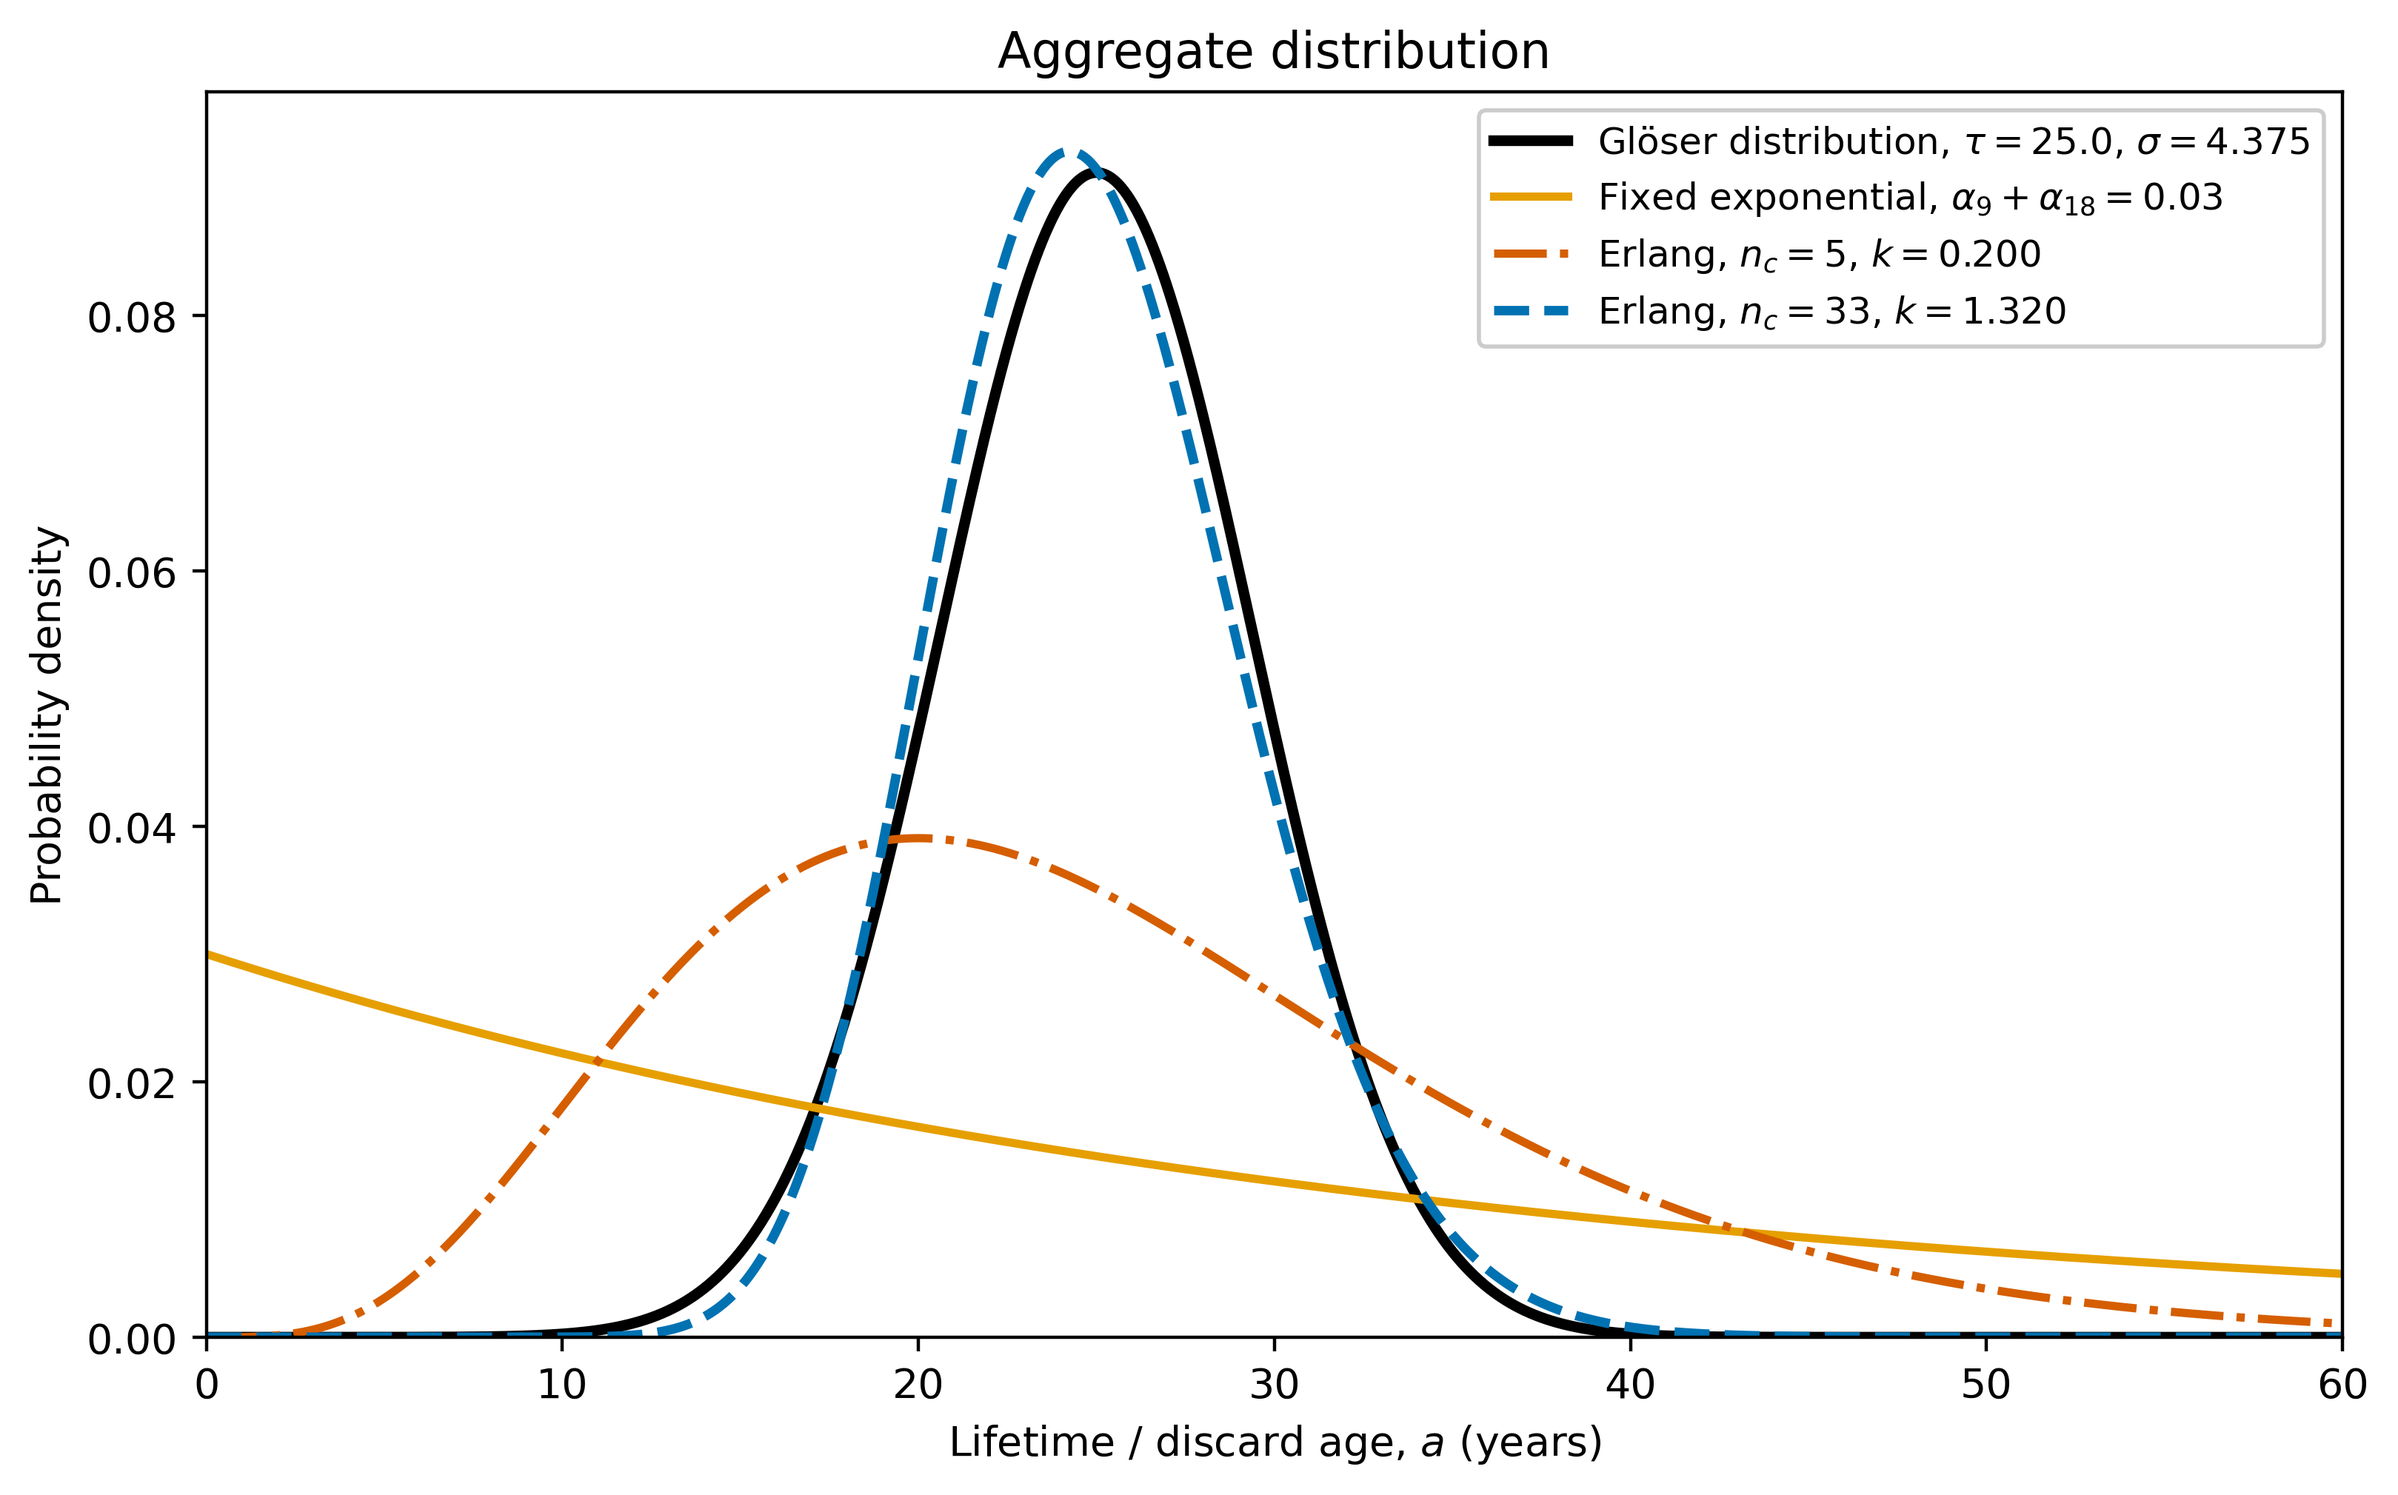
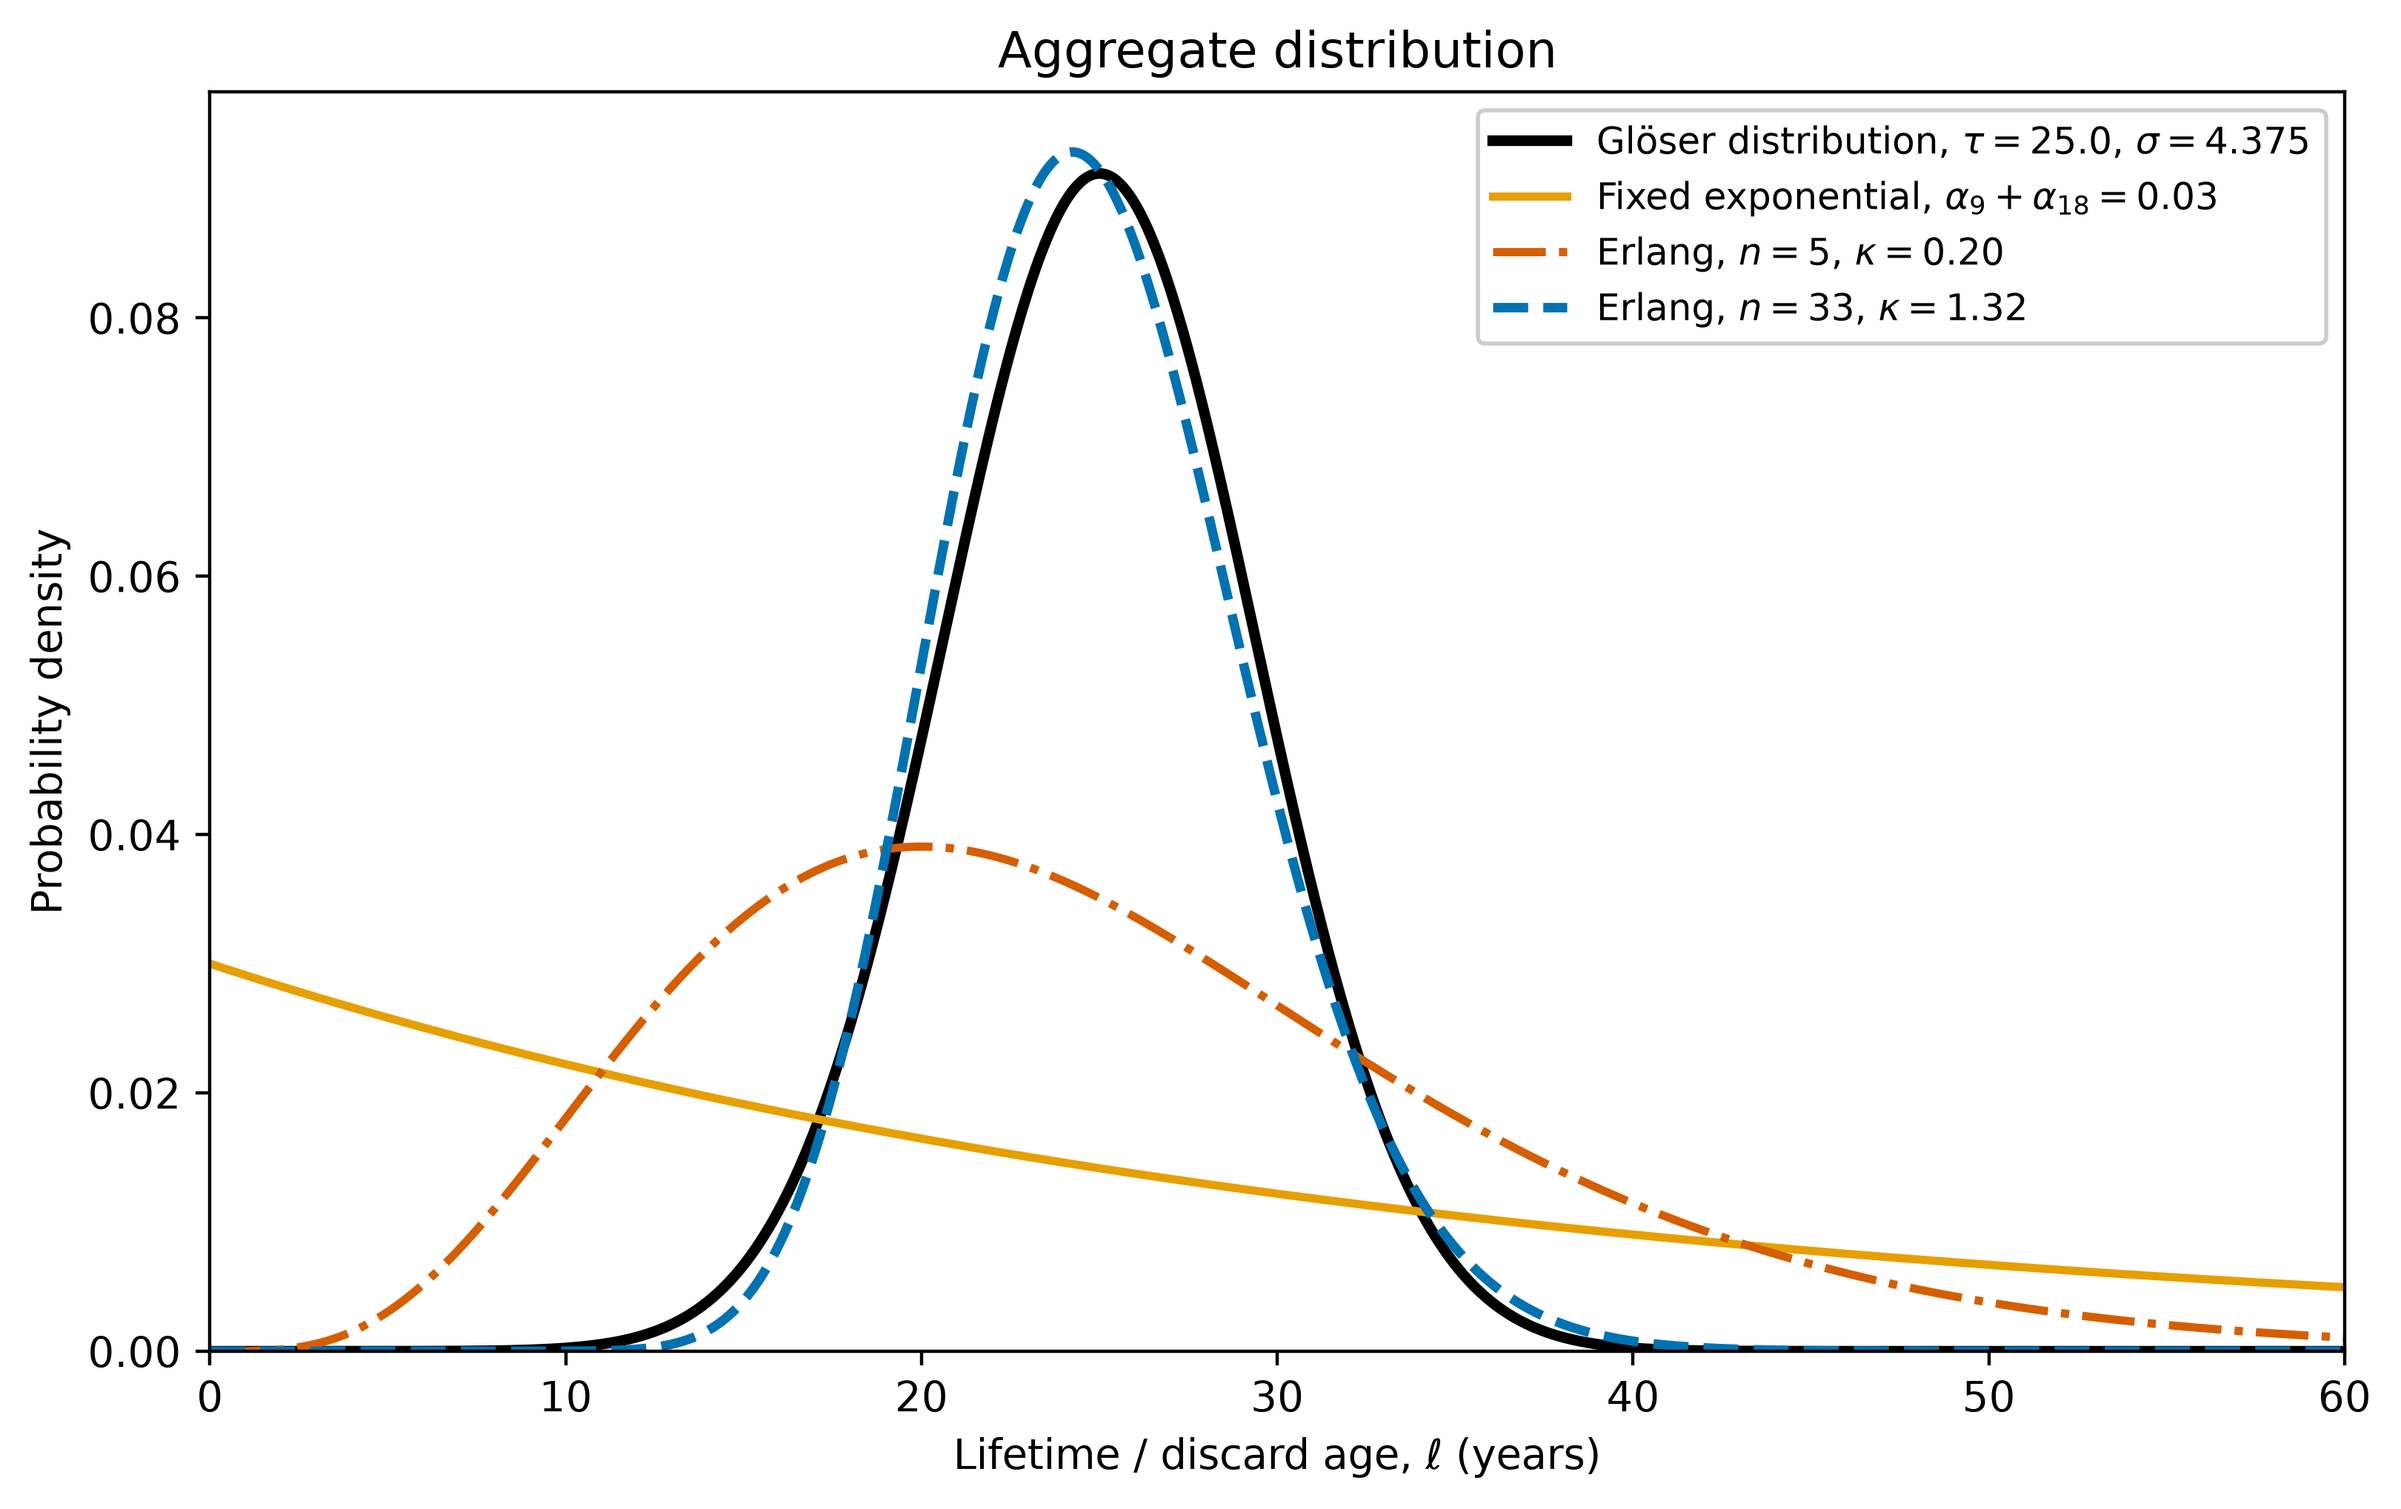
Minor fixes

diff --git a/distributions.py b/distributions.py
@@ -140,14 +140,19 @@ def integrated_absolute_error(
 
     This is dimensionless. IAE/2 is the total variation distance.
     """
-    return float(np.trapz(np.abs(approx - target), x))
+    # np.trapz was removed in NumPy 2.x; np.trapezoid is its replacement.
+    _trapz = getattr(np, "trapezoid", None) or np.trapz
+    return float(_trapz(np.abs(approx - target), x))
 
 
 # ---------------------------------------------------------------------
 # Common assumptions
 # ---------------------------------------------------------------------
 
-x = np.linspace(0, 60, 2401)
+# Evaluation grid. The IAE is defined over [0, inf); the grid runs to 500 years
+# so the slow exponential tails are integrated in full (spacing 0.025 yr, as
+# before). The figures still show only 0-60 years via xlim.
+x = np.linspace(0, 500, 20001)
 
 alpha_9 = 0.02
 alpha_18 = 0.01
@@ -167,7 +172,7 @@ k_mid_agg = m_mid / tau_agg
 erlang_mid_aggregate = erlang_pdf(x, m_mid, k_mid_agg)
 
 # Erlang m=33: best approximation by matching CV = sigma/tau = 0.175.
-# For Erlang, CV = 1/sqrt(m), so m \uc0\u8776  (tau/sigma)^2 = 1/0.175^2 \u8776  32.65.
+# For Erlang, CV = 1/sqrt(n), so n ~ (tau/sigma)^2 = 1/0.175^2 ~ 32.65.
 m_best = int(round((tau_agg / sigma_agg) ** 2))
 k_best_agg = m_best / tau_agg
 erlang_best_aggregate = erlang_pdf(x, m_best, k_best_agg)
@@ -191,16 +196,16 @@ for _, row in df.iterrows():
     gloser_sectoral += w_i * normal_pdf(x, tau_i, sigma_i)
 
     # Sectoral mixed exponential:
-    # g(a) = sum_i w_i alpha_{9,i} exp(-alpha_{9,i} a),
-    # alpha_{9,i} = 1/tau_i.
+    # g(l) = sum_z w_z mu_z exp(-mu_z l),
+    # mu_z = alpha_{9,z} + alpha_{18,z} = 1/tau_z (total exit rate of sector z).
     mixed_exponential_sectoral += w_i * exp_pdf(x, 1.0 / tau_i)
 
     # Sectoral Erlang m=5:
-    # g(a) = sum_i w_i Erlang(a; m=5, k_i=5/tau_i).
+    # g(l) = sum_z w_z Erlang(l; n_z=5, kappa_z=5/tau_z).
     erlang_mid_sectoral += w_i * erlang_pdf(x, m_mid, m_mid / tau_i)
 
     # Sectoral Erlang m=33:
-    # g(a) = sum_i w_i Erlang(a; m=33, k_i=33/tau_i).
+    # g(l) = sum_z w_z Erlang(l; n_z=33, kappa_z=33/tau_z).
     erlang_best_sectoral += w_i * erlang_pdf(x, m_best, m_best / tau_i)
 
 
@@ -344,10 +349,10 @@ summary = {
         "k": k_best_agg,
     },
     "sectoral_Erlang_mid": {
-        "formula": "sum_i w_i * Erlang(a; m=5, k_i=5/tau_i)",
+        "formula": "sum_z w_z * Erlang(l; n_z=5, kappa_z=5/tau_z)",
     },
     "sectoral_Erlang_best": {
-        "formula": f"sum_i w_i * Erlang(a; m={m_best}, k_i={m_best}/tau_i)",
+        "formula": f"sum_z w_z * Erlang(l; n_z={m_best}, kappa_z={m_best}/tau_z)",
     },
     "sectoral_best_m_by_IAE_scan": {
         "m": int(m_best_sectoral_by_iae),
@@ -413,7 +418,7 @@ plt.plot(
     color=COL["erl_m5"],
     linewidth=2.0,
     linestyle="-.",
-    label=r"Erlang, $n_{c}=5$, $k=0.200$",
+    label=rf"Erlang, $n={m_mid}$, $\kappa={k_mid_agg:.2f}$",
 )
 
 plt.plot(
@@ -422,12 +427,12 @@ plt.plot(
     color=COL["erl_m33"],
     linewidth=2.3,
     linestyle="--",
-    label=rf"Erlang, $n_{{c}}={m_best}$, $k={k_best_agg:.3f}$",
+    label=rf"Erlang, $n={m_best}$, $\kappa={k_best_agg:.2f}$",
 )
 
 plt.xlim(0, 60)
 plt.ylim(bottom=0)
-plt.xlabel(r"Lifetime / discard age, $a$ (years)")
+plt.xlabel(r"Lifetime / discard age, $\ell$ (years)")
 plt.ylabel("Probability density")
 plt.title("Aggregate distribution")
 plt.legend(**legend_kwargs)
@@ -464,7 +469,7 @@ plt.plot(
     color=COL["mixexp"],
     linewidth=2.0,
     linestyle=":",
-    label=r"Mixed exponential, $w_i$, $\alpha_{9,i}=1/\tau_i$",
+    label=r"Mixed exponential, $w_z$, $\mu_z=1/\tau_z$",
 )
 
 plt.plot(
@@ -473,7 +478,7 @@ plt.plot(
     color=COL["erl_m5"],
     linewidth=2.0,
     linestyle="-.",
-    label=r"Erlang, $n_{c}=5$, $k_i=n_{c}/\tau_i$",
+    label=rf"Erlang, $n_z={m_mid}$, $\kappa_z=n_z/\tau_z$",
 )
 
 plt.plot(
@@ -482,12 +487,12 @@ plt.plot(
     color=COL["erl_m33"],
     linewidth=2.3,
     linestyle="--",
-    label=rf"Erlang, $n_{{c}}={m_best}$, $k_i=n_{{c}}/\tau_i$",
+    label=rf"Erlang, $n_z={m_best}$, $\kappa_z=n_z/\tau_z$",
 )
 
 plt.xlim(0, 60)
 plt.ylim(bottom=0)
-plt.xlabel(r"Lifetime / discard age, $a$ (years)")
+plt.xlabel(r"Lifetime / discard age, $\ell$ (years)")
 plt.ylabel("Probability density")
 plt.title("Sectoral distribution")
 plt.legend(
